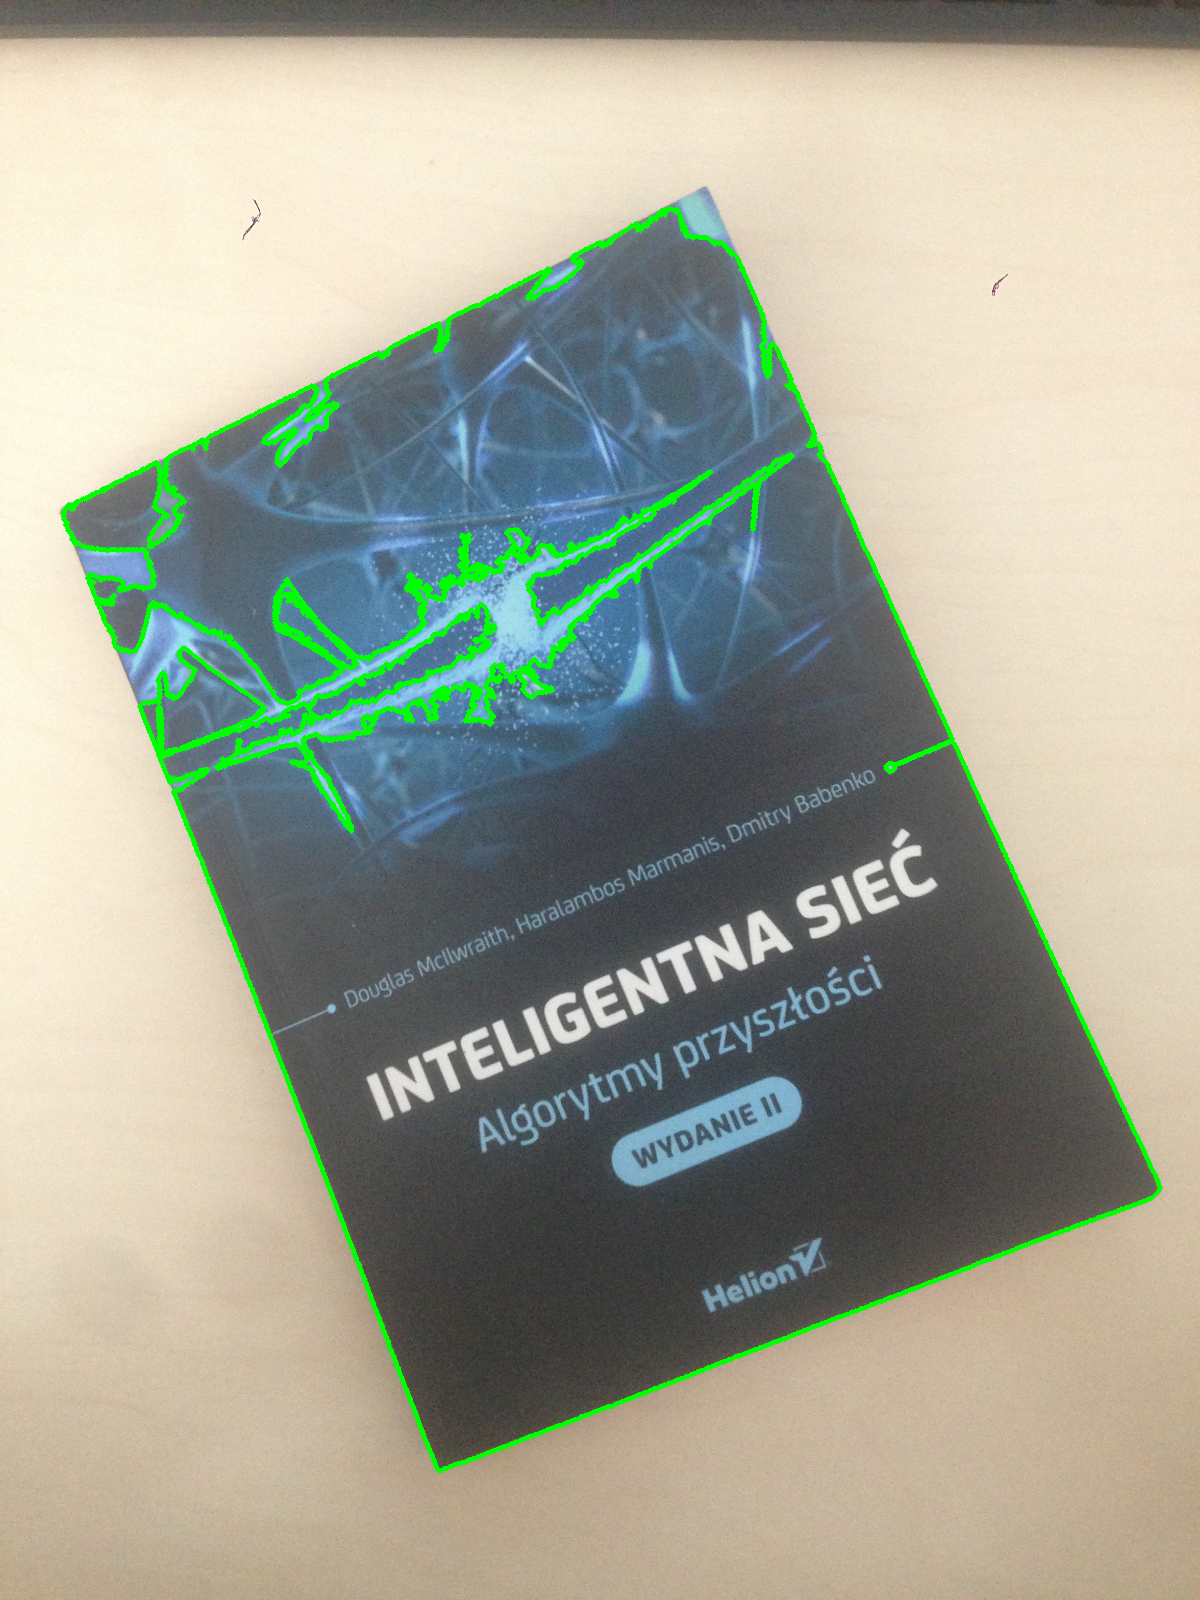
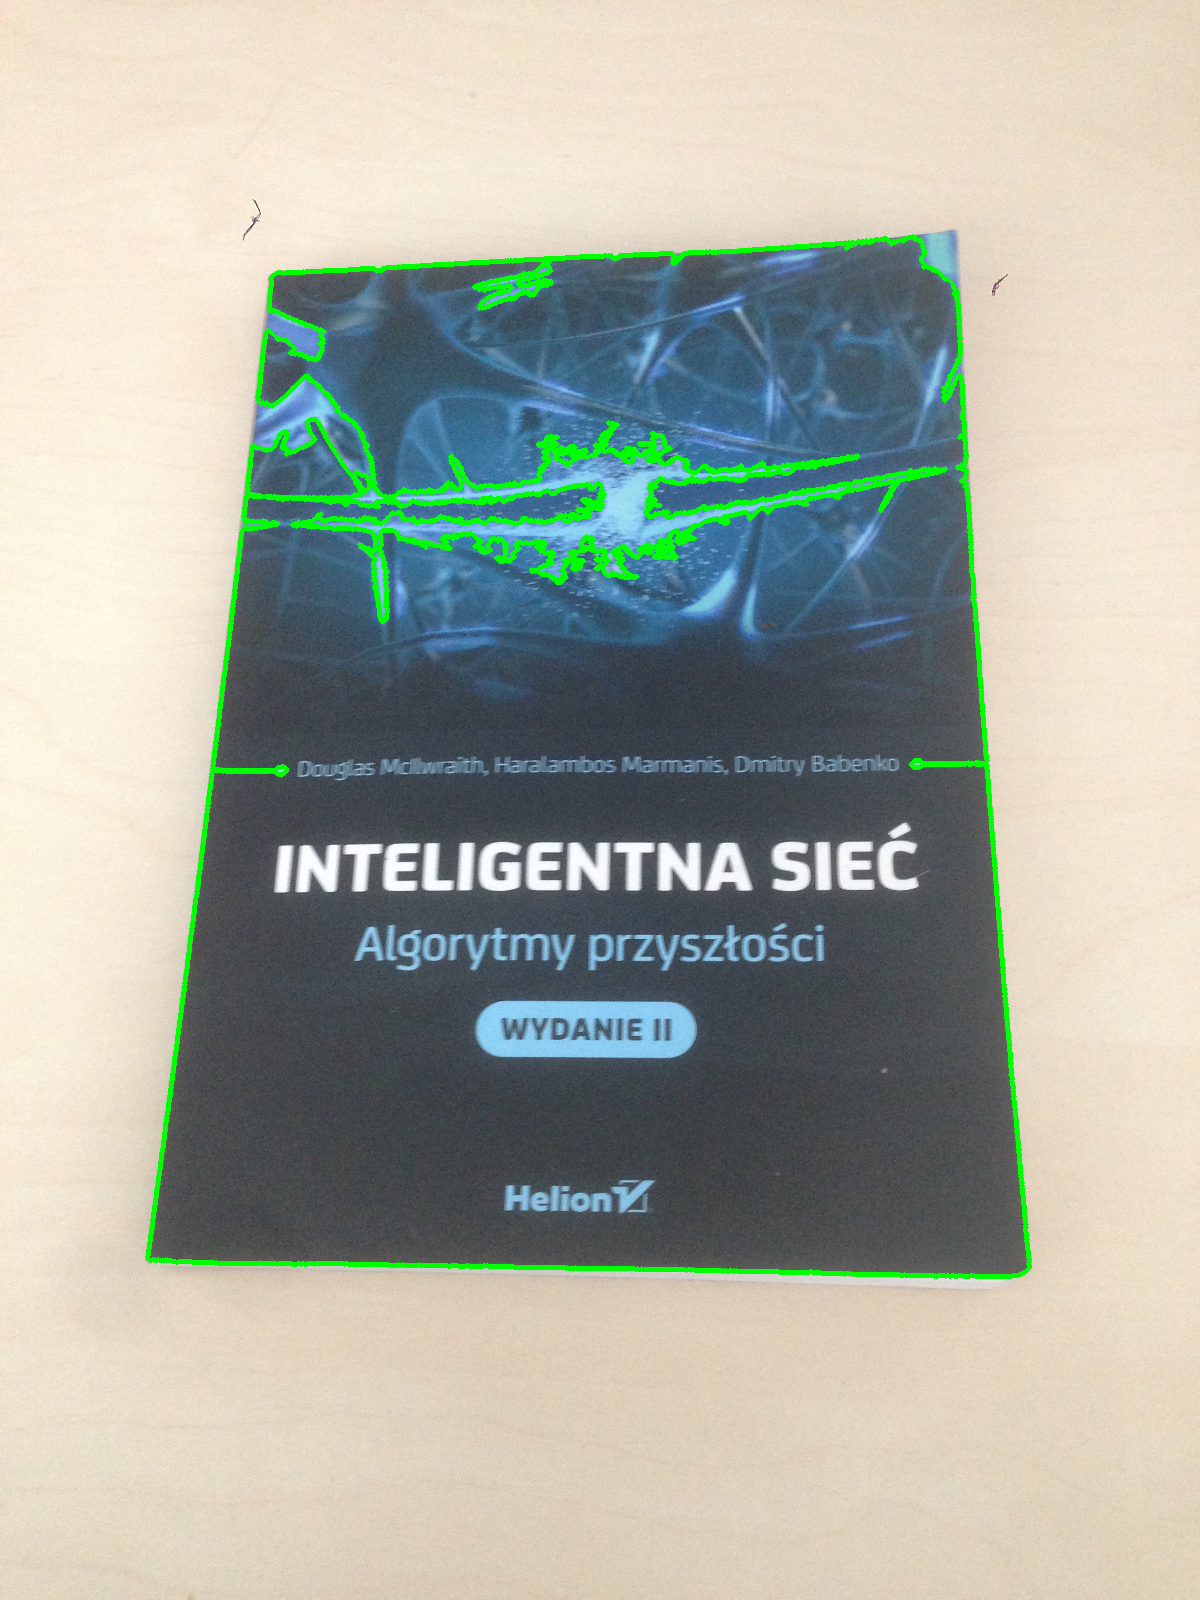
Text detector
Text detector class added, issue with detecting words

diff --git a/Document-Perspective-Corrector/src/AutomaticPerspectiveCorrector/AutomaticPerspectiveCorrector.cpp b/Document-Perspective-Corrector/src/AutomaticPerspectiveCorrector/AutomaticPerspectiveCorrector.cpp
@@ -1,14 +1,11 @@
 #include "AutomaticPerspectiveCorrector.h"
 
-#if DPC_DEBUG
-	bool debug = true;
-#else
-	bool debug = false;
-#endif
-
 
 #define LOG(x) {std::cout << x <<std::endl;}
 #define SHOW(x){cv::imshow("TEST", x);cv::waitKey(0);}
+
+
+
 
 AutomaticPerspectiveCorrector::AutomaticPerspectiveCorrector(cv::Mat sourceImage)
 	:sourceImage(sourceImage)
@@ -27,21 +24,7 @@ cv::Mat AutomaticPerspectiveCorrector::GetCorrectedImage()
 {
 	processedImage = PreprocessImage(processedImage);
 	FindLargestCountur();
-
-	if (!debug) {
-		cv::drawContours(sourceImage, contours, largestContourIndex, cv::Scalar(0, 255, 0), 3);
-		cv::imwrite("Contours.png", sourceImage);
-	}
-	
-	FindDocumentCorners();
-
-	if (!debug)
-	{
-		LOG(documentCorners)
-		cv::polylines(sourceImage, documentCorners, true, cv::Scalar(0, 255, 0), 3);
-		cv::imwrite("Contours2.png", sourceImage);
-	}
-	
+	GetDocumentCorners();
 	CorrectPerspective();
 
 	return processedImage;
@@ -70,7 +53,7 @@ void AutomaticPerspectiveCorrector::FindLargestCountur()
 	}
 }
 
-void AutomaticPerspectiveCorrector::FindDocumentCorners()
+void AutomaticPerspectiveCorrector::GetDocumentCorners()
 {
 	std::vector<cv::Point> points;
 
@@ -133,47 +116,6 @@ int AutomaticPerspectiveCorrector::MeasureDistanceBetweenPoints(cv::Point a, cv:
 }
 
 
-void AutomaticPerspectiveCorrector::DetectText()
-{
-	cv::Mat imageForDetection = processedImage;
-
-	imageForDetection = PreprocessImage(imageForDetection);
-
-
-	cv::findContours(imageForDetection, contours, hierarchy, CV_RETR_CCOMP, CV_CHAIN_APPROX_SIMPLE, cv::Point(0, 0));
-
-	
-
-	int minimumArea = 75;
-	int maximumArea = 25000;
-	
-	for (int i = 0; i < contours.size(); i++)
-	{
-		int area = cv::contourArea(contours[i]);
-		if (area >= minimumArea && area <= maximumArea)
-		{
-			cv::Rect boundRectangle = cv::boundingRect(contours[i]);
-			int height = boundRectangle.height;
-			int width = boundRectangle.width;
-			double occupyrate = area / (height*width);
-			int aspectRatio = std::max(height, width) / std::min(height, width);
-			double compactness = area / (cv::arcLength(contours[i], true) *cv::arcLength(contours[i], true));
-
-			if ((occupyrate >= 0.02) && (occupyrate <= 0.95))
-			{
-				if (aspectRatio <= 6)
-				{
-					if (compactness > 0.003 && compactness <= 0.95)
-					{
-						cv::drawContours(processedImage, contours, i, cv::Scalar(0, 255, 0), 3);
-					}
-				}
-			}
-		}
-	}
-
-	SHOW(processedImage)
-}
 
 
 

diff --git a/Document-Perspective-Corrector/src/TextDetector/TextDetector.cpp b/Document-Perspective-Corrector/src/TextDetector/TextDetector.cpp
@@ -1,0 +1,73 @@
+#include "TextDetector.h"
+
+#define LOG(x) {std::cout << x <<std::endl;}
+#define SHOW(x){cv::imshow("TEST", x);cv::waitKey(0);}
+
+TextDetector::TextDetector(cv::Mat image)
+	:sourceImage(image), processedImage(image)
+{
+	sourceImage = NormalizeImageSize(sourceImage);
+	processedImage = sourceImage.clone();
+}
+
+void TextDetector::DetectText()
+{
+	SHOW(sourceImage)
+	cv::cvtColor(processedImage, processedImage, cv::COLOR_BGR2GRAY);
+	
+	processedImage.convertTo(processedImage, -1, 1, -40);
+	cv::threshold(processedImage, processedImage, 80, 255, cv::THRESH_BINARY);
+
+	SHOW(processedImage)
+
+	cv::findContours(processedImage, contours, hierarchy, cv::RETR_TREE, cv::CHAIN_APPROX_SIMPLE);
+
+	std::vector<cv::Rect> rectangles(contours.size());
+	for (int i = 0; i < contours.size(); i++)
+	{
+		rectangles[i] = cv::boundingRect(contours[i]);
+	}
+
+	int i = 0, j;
+
+	std::vector<cv::Rect> newRect;
+
+	for (j = 0 + i; j < rectangles.size(); j++)
+	{
+		int distance = (rectangles[j].x + rectangles[j].width) - rectangles[j+1].x;
+
+		if (std::abs(distance) < 0.025)
+		{
+			newRect.push_back(AddRectangles(rectangles[j], rectangles[j + 1], distance));
+			for (i = j + 1; i < rectangles.size(); i++)
+			{
+				distance = (rectangles[i].x + rectangles[i].width) - rectangles[i + 1].x;
+				if (distance < 0.025)
+				{
+					newRect[newRect.size()-1] = AddRectangles(newRect[newRect.size()-1], rectangles[i + 1], distance);
+				}
+				break;
+			}
+			cv::rectangle(sourceImage, newRect[newRect.size()-1], cv::Scalar(0, 0, 255), 3);
+		}
+	}
+
+
+	SHOW(sourceImage)
+}
+
+
+cv::Mat TextDetector::NormalizeImageSize(cv::Mat image)
+{
+	cv::resize(image, image, cv::Size(600, 800), cv::INTER_LANCZOS4);
+	return image;
+}
+
+
+cv::Rect TextDetector::AddRectangles(cv::Rect firstRect, cv::Rect secondRect, int distance)
+{
+	firstRect.width = firstRect.width + distance + secondRect.width;
+	firstRect.height = firstRect.height + std::abs(firstRect.height - secondRect.height);
+
+	return firstRect;
+}

diff --git a/Document-Perspective-Corrector/src/Source.cpp b/Document-Perspective-Corrector/src/Source.cpp
@@ -1,20 +1,21 @@
 #include "ManualPerspectiveCorrector.h"
 #include "AutomaticPerspectiveCorrector/AutomaticPerspectiveCorrector.h"
+#include "TextDetector/TextDetector.h"
 #include <iostream>
 
 
 
 int main()
 {
-	cv::Mat image = cv::imread("C:\\Users\\fkonopac\\Documents\\GitHub\\Document-Perspective-Corrector\\x64\\Debug\\Documents\\IMG_0417.jpg");
-	cv::Mat correctedImage;
-
-	//correctedImage = getCorrectedImage(image);
+	//cv::Mat image = cv::imread("C:\\Users\\fkonopac\\Documents\\GitHub\\Document-Perspective-Corrector\\x64\\Debug\\Documents\\IMG_0416.jpg");
+	//cv::Mat image = cv::imread("C:\\Users\\fkonopac\\Documents\\GitHub\\Document-Perspective-Corrector\\x64\\Debug\\Documents\\cvl-database-1-1\\testset\\pages\\0052-1.tif");
+	cv::Mat image = cv::imread("C:\\Users\\fkonopac\\Documents\\GitHub\\Document-Perspective-Corrector\\Document-Perspective-Corrector\\Corrected.png");
+	cv::Mat correctedImage = image;
 	
-	AutomaticPerspectiveCorrector corrector(image);
-	correctedImage = corrector.GetCorrectedImage();
-	corrector.DetectText();
-	cv::imshow("Result", correctedImage);
-	cv::waitKey(0);
+
+	TextDetector detector(correctedImage);
+	detector.DetectText();
+
+	
 }
 

diff --git a/Document-Perspective-Corrector/src/AutomaticPerspectiveCorrector/AutomaticPerspectiveCorrector.h b/Document-Perspective-Corrector/src/AutomaticPerspectiveCorrector/AutomaticPerspectiveCorrector.h
@@ -1,5 +1,9 @@
 #pragma once
-#include "../ManualPerspectiveCorrector.h"
+#include <opencv2/core.hpp>
+#include <opencv2/opencv.hpp>
+#include <opencv2/highgui.hpp>
+#include <opencv2/imgproc.hpp>
+#include <string.h>
 
 
 class AutomaticPerspectiveCorrector
@@ -7,14 +11,13 @@ class AutomaticPerspectiveCorrector
 public:
 	AutomaticPerspectiveCorrector(cv::Mat sourceImage);
 	cv::Mat GetCorrectedImage();
-	void DetectText();
 
 private:
 	cv::Mat NormalizeImageSize(cv::Mat image);
 	cv::Mat PreprocessImage(cv::Mat image);
 	void FindLargestCountur();
 	int MeasureDistanceBetweenPoints(cv::Point a, cv::Point b);
-	void FindDocumentCorners();
+	void GetDocumentCorners();
 	void FindFourDocumentCorners(int epsilon);
 	void CorrectPerspective();
 

diff --git a/Document-Perspective-Corrector/src/TextDetector/TextDetector.h b/Document-Perspective-Corrector/src/TextDetector/TextDetector.h
@@ -1,0 +1,24 @@
+#pragma once
+#include <opencv2/core.hpp>
+#include <opencv2/opencv.hpp>
+#include <opencv2/highgui.hpp>
+#include <opencv2/imgproc.hpp>
+#include <string.h>
+
+class TextDetector
+{
+public:
+	TextDetector(cv::Mat);
+	void DetectText();
+
+
+private:
+	cv::Mat NormalizeImageSize(cv::Mat image);
+	cv::Rect AddRectangles(cv::Rect firstRect, cv::Rect secondRect, int distance);
+
+	cv::Mat sourceImage;
+	cv::Mat processedImage;
+	std::vector<std::vector<cv::Point>> contours;
+	std::vector<cv::Vec4i> hierarchy;
+	
+};

diff --git a/Document-Perspective-Corrector/src/ManualPerspectiveCorrector.cpp b/Document-Perspective-Corrector/src/ManualPerspectiveCorrector.cpp
@@ -47,8 +47,6 @@ cv::Mat getCorrectedImage(cv::Mat image)
 
 	cv::warpPerspective(sourceImage, destinationImage, homography, cv::Size(destinationImageWidth, destinationImageHeight));
 
-	//cv::resize(destinationImage, destinationImage, cv::Size(600, 800), cv::INTER_LANCZOS4);
-
 	return destinationImage;
 }
 

diff --git a/Perspective-Corrector-Test/test.cpp b/Perspective-Corrector-Test/test.cpp
@@ -12,6 +12,8 @@ int getRandomIntInRange(int min, int max)
 	return randomInt(generator);
 }
 
+
+
 TEST(InputTest, LoadInvalidImage)
 {
 	bool result = LoadImage("invalidImage.jpg",sourceImageT);
